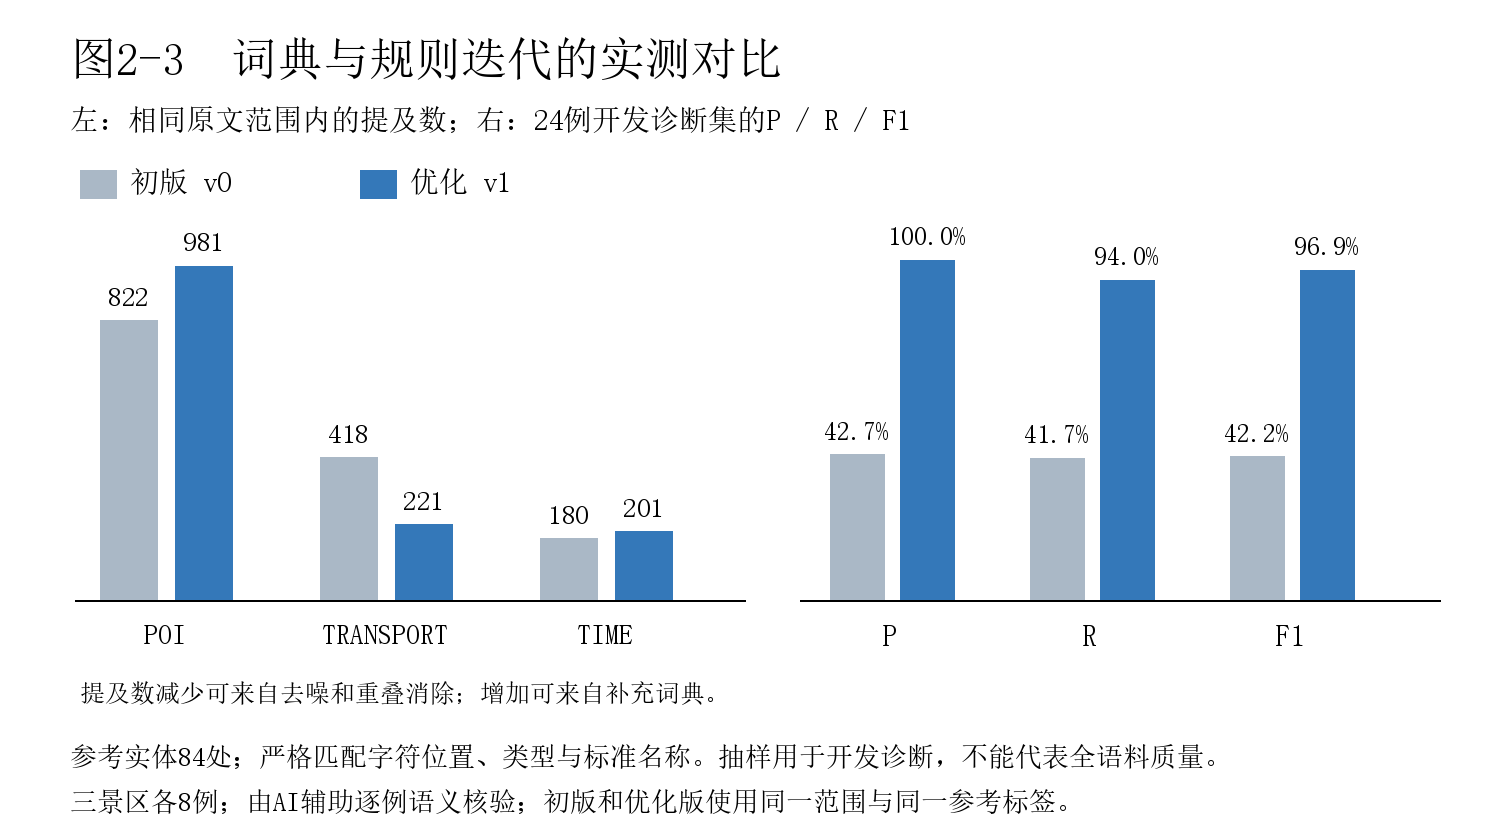
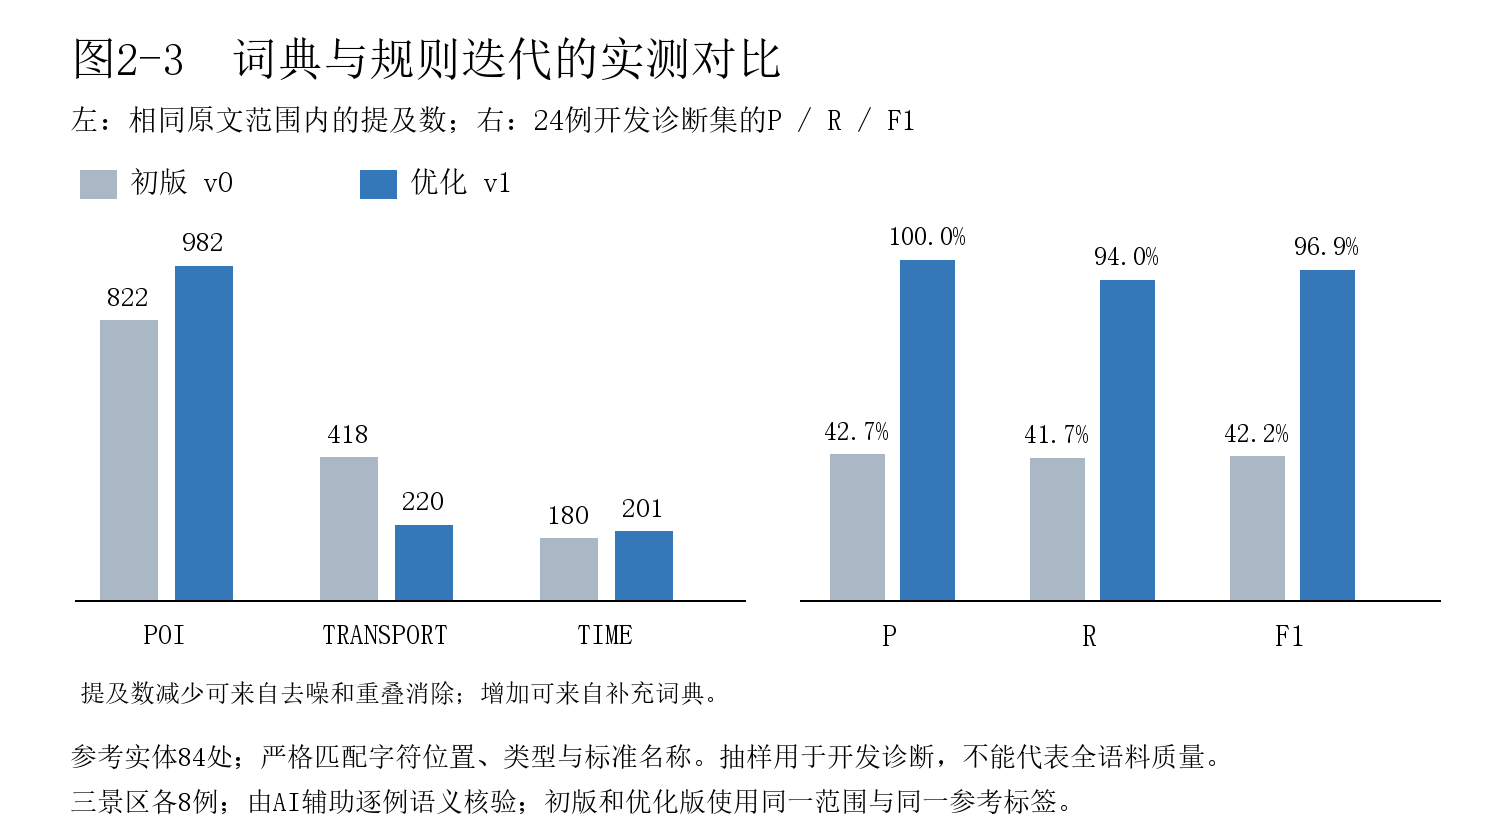
Confirm station alias and register Wentworth Falls picnic area

diff --git a/src/exp02_verify.py b/src/exp02_verify.py
@@ -70,6 +70,23 @@ def main():
     ids=lambda obj:{(m['span']['doc_id'],m['span']['start'],m['span']['end'],m['entity_id']):m['mention_id'] for m in obj['mentions']}
     assert ids(reordered)==ids(output),'顺序变化导致ID变化'
     assert {m['span']['doc_id'] for m in ms}==set(docs)
+    # YZH反馈的车站别名及独立野餐区，按完整地点边界核对，防止退回短词或误合并。
+    confirmations=read_json(ROOT/'data/resources/exp02_alignment_confirmations.json')
+    assert confirmations['corpus_sha256']==h
+    assert confirmations['resource_version']==lex['resource_version']==output['resource_version']
+    for mapping in confirmations['mappings']:
+        e=catalog[mapping['entity_id']]
+        assert e['active'] and e['entity_type']=='POI'
+        assert e['canonical_name']==mapping['canonical_name']
+        assert mapping['surface'] in [e['canonical_name']]+e['aliases']
+        for field in ['evidence','context']:
+            s=mapping[field]
+            assert docs[s['doc_id']]['text'][s['start']:s['end']]==s['text']
+        matches=[m for m in ms if m['span']==mapping['evidence']]
+        assert len(matches)==1 and matches[0]['entity_id']==mapping['entity_id']
+        for other_id in mapping.get('distinct_from',[]):
+            assert other_id!=e['entity_id'] and catalog[other_id]['active']
+            assert any(m['entity_id']==other_id for m in ms)
     # Each reference label is checked against frozen original text, including empty negative cases.
     reference=read_json(ROOT/'data/resources/exp02_review_reference.json')
     assert reference['corpus_sha256']==h
@@ -87,6 +104,7 @@ def main():
         'no_duplicate_or_overlapping_mentions':True,'no_exact_stopwords':True,
         'deterministic_rerun':True,'ids_stable_after_document_reordering':True,'review_reference_source_spans':True},
         corpus_sha256=h,review_metrics={v:r['metrics'] for v,r in review.items()})
+    quality['checks']['confirmed_poi_mappings']=len(confirmations['mappings'])
     write_json(ROOT/'results/checks/exp02_quality.json',quality)
     pending=[]
     for item in lex['ambiguous_names']:

diff --git a/src/exp04_coreference.py b/src/exp04_coreference.py
@@ -21,7 +21,7 @@ def load_json(path):
 
 def write_json(path,obj):
     path=Path(path);path.parent.mkdir(parents=True,exist_ok=True)
-    path.write_text(json.dumps(obj,ensure_ascii=False,indent=2)+'\n',encoding='utf-8')
+    path.write_text(json.dumps(obj,ensure_ascii=False,indent=2)+'\n',encoding='utf-8',newline='\n')
 
 def sha256(path):
     # 仓库将文本归一为LF；Windows工作区中已有JSON可能为CRLF。

diff --git a/src/exp02_entities.py b/src/exp02_entities.py
@@ -23,7 +23,7 @@ def read_json(path):
 def write_json(path, obj):
     path = Path(path)
     path.parent.mkdir(parents=True, exist_ok=True)
-    path.write_text(json.dumps(obj, ensure_ascii=False, indent=2) + '\n', encoding='utf-8')
+    path.write_text(json.dumps(obj, ensure_ascii=False, indent=2) + '\n', encoding='utf-8', newline='\n')
 
 
 def load_inputs():

diff --git a/results/checks/exp02_handoff.md b/results/checks/exp02_handoff.md
@@ -4,8 +4,9 @@
 
 ## 版本与运行
 
-- `schema_version: "1.0"`，`corpus_version: "v1"`，词典资源`exp02-v1`。完整输入18篇、154930字符，实际相关游览及接驳抽取范围42911字符；没有修改实验1公共正文。
+- `schema_version: "1.0"`，`corpus_version: "v1"`，词典资源`exp02-v1.1`。完整输入18篇、154930字符，实际相关游览及接驳抽取范围42911字符；没有修改实验1公共正文。
 - 实测Python 3.12.14、Pillow 12.3.0。识别与检查只需标准库；绘图依赖Pillow和中文字体，Windows默认宋体，其他系统可设置`EXP02_FONT`为中文字体文件。
+- 本次实体对齐增量更新另在Python 3.13.9、Pillow 12.0.0上重跑通过。实验2、4的JSON输出固定LF换行，与仓库约定一致，避免Windows重生成后Git换行转换使输入SHA-256失配。
 - 代码以Python 3.11+为兼容目标，尚未在3.11实测。无需密钥、LLM调用或联网服务。报告制作使用的Word排版环境不属于算法运行依赖。
 
 ```powershell
@@ -23,10 +24,12 @@ python src/exp02_visualize.py
 | `src/exp02_entities.py` | 三类实体词典／规则、偏移与稳定ID |
 | `src/exp02_verify.py` | 结构、范围、引用、字符位置、确定性和24例评价 |
 | `src/exp02_visualize.py` | 初版词频、优化词频及迭代对比彩色图 |
-| `data/resources/exp02_lexicon.json` | 169条POI登记、19条交通规则、停用词及已知歧义 |
+| `data/resources/exp02_lexicon.json` | 170条POI登记、19条交通规则、停用词及已知歧义 |
+| `data/resources/exp02_alignment_confirmations.json` | 两处已确认映射、原文区间、上下文与合并／拆分理由 |
 | `data/resources/exp02_scope.json` | 18篇原文的抽取起止、来源标记及范围说明 |
 | `data/resources/exp02_review_reference.json` | AI辅助逐例核验的24例参考标签，84处提及 |
-| `data/outputs/entities.json` | 327条目录记录，326条活跃、1条停用；1403次提及 |
+| `data/outputs/entities.json` | 328条目录记录，327条活跃、1条停用；1403次提及 |
+| `results/checks/exp02_alignment_update.json` | 本次增量更新、旧ID稳定性及实验4兼容性检查 |
 | `results/checks/exp02_baseline_entities.json` | 可复现初版输出，包含泛词和重叠候选，禁止作为正式图谱输入 |
 | `results/checks/exp02_*_stats.json`、`exp02_*_frequency.csv` | 两版统计、按实体及官方／游客分组的频次 |
 | `results/checks/exp02_scenic_density.csv` | 每10000字符提及数，辅助比较不同长度文本 |
@@ -53,10 +56,25 @@ python src/exp02_verify.py
 
 | 景区 | 抽取字符 | POI提及 | 交通提及 | 时间提及 | 活跃实体 |
 | --- | ---: | ---: | ---: | ---: | ---: |
-| S001 箱根 | 10082 | 295 | 95 | 41 | 92 |
+| S001 箱根 | 10082 | 296 | 94 | 41 | 92 |
 | S002 优胜美地 | 24494 | 424 | 64 | 107 | 148 |
-| S003 蓝山 | 8335 | 262 | 62 | 53 | 86 |
-| 合计 | 42911 | 981 | 221 | 201 | 326 |
+| S003 蓝山 | 8335 | 262 | 62 | 53 | 87 |
+| 合计 | 42911 | 982 | 220 | 201 | 327 |
+
+## YZH两处名称反馈的增量交付（exp02-v1.1）
+
+| YZH原词 | 确认后的标准实体 | 完整名称提及证据 |
+| --- | --- | --- |
+| 姥子缆车站 | 姥子站，沿用`S001_POI_026`，新增别名 | `S001_VIS_001 [482,487)` |
+| 温特沃斯(Wentworth)瀑布野餐区 | 温特沃斯瀑布野餐区，新增`S003_POI_052` | `S003_OFF_001 [2041,2061)` |
+
+第一处的上下文先写“来到姥子缆车站前”，随后写“离开姥子站”，可确认为同一地点。第二处原文明说到达野餐区后可步行前往瀑布，后续另述瀑布步道，故野餐区不合并到镇区`S003_POI_006`、瀑布`S003_POI_007`或步道`S003_POI_014`。上述旧实体仍活跃，原ID含义未变。
+
+完整地点最长匹配后，原来站名内部的“缆车”交通提及改为完整站点提及，原来野餐区名称内部的瀑布提及改为独立野餐区提及。因此POI提及981→982、交通221→220、时间201不变，总数仍为1403；不应理解为新增地点没有识别成功。原有327个目录ID全部保留，1401条未变提及沿用原mention_id；仅上述两处旧边界由两处完整名称提及替代，旧mention_id不复用。新增实体编号按现有最大S003_POI_051后递增分配。
+
+已重跑实体初版、优化版、结构验证、两处完整名称及实体分离检查、统计图；24例开发诊断指标保持TP79/FP0/FN5。实体输入变更后同步重跑实验4的基线、正式结果和验证，59例预测与指标未改变，404处证据检查通过，输入指纹已更新。
+
+YZH接收时先把本次main更新合入`yzh/routes-graph`，不要只手填路线ID。然后重跑实验3路线及评价、实验6图谱与质量检查和原有测试，核对`R_S001_VIS_001_01`第5步→`S001_POI_026`、`R_S003_OFF_001_01`第2步→`S003_POI_052`。按已反馈的30步范围，两处映射现已具备数据依据；最终对齐数、图谱节点边数和图表应以YZH实际复跑结果为准，本说明不代替其验收。FYH的advice.json是否可用需单独检查，本次没有生成条件建议或改动YZH模块。
 
 ## 读取样例
 

diff --git a/reports/exp02_entity_definitions.md b/reports/exp02_entity_definitions.md
@@ -17,11 +17,12 @@
 - “箱根汤本／箱根汤本站”当前共同作为入口节点，区域与车站精细粒度尚未拆分，目录note明确记录；今后拆分须维护旧ID映射。
 - 范围属性`scope`允许inside（目标游览区内）、surrounding（周边／接驳）、external（园外）、regional（父级区域）、not_applicable。该字段是本实验的操作性分区，不是法定边界或地图定位结果。
 - Wentworth Falls可指镇区或瀑布。英文裸名按接驳镇区登记并保留歧义说明，中文“温特沃斯瀑布”另建实体，不自动合并。
+- exp02-v1.1确认“姥子缆车站”为“姥子站”S001_POI_026的别名；“温特沃斯瀑布野餐区”独立登记为S003_POI_052，保留双语原词别名，与镇区S003_POI_006、瀑布S003_POI_007及步道S003_POI_014区分。原文位置与理由见data/resources/exp02_alignment_confirmations.json。
 - 否定、未到访、关闭、禁止使用中的实体仍是文本提及。不得因识别到bicycles就断言官方允许骑车；是否采用某交通工具留给后续关系或步骤抽取。
 
 ## 初版与优化版
 
-初版仅使用种子POI名称、通用交通词和基础中文时间规则，各词独立匹配，因此保留了嵌套子词与泛称噪声。优化版使用169条POI登记、19条交通规则、7组时间规则，删除11个POI／交通停用项，采用全局最长非重叠匹配，并补充英文时长、完整中文时刻、行程日序及词义上下文排除。两版使用完全相同的18篇来源和42911字符抽取范围。
+初版仅使用种子POI名称、通用交通词和基础中文时间规则，各词独立匹配，因此保留了嵌套子词与泛称噪声。优化版当前使用170条POI登记、19条交通规则、7组时间规则，删除11个POI／交通停用项，采用全局最长非重叠匹配，并补充英文时长、完整中文时刻、行程日序及词义上下文排除。两版使用完全相同的18篇来源和42911字符抽取范围。
 
 时间仅作保守表面规范化，例如`30min`→`30分钟`、`2 days`→`2天`、`清晨`→`早上`；“一日／一天”“一个小时／一小时”等尚未做完整等价归并。多个时段时刻仅是提及，不自动建立到达、离开、停留或条件关系。
 

diff --git a/README.md b/README.md
@@ -10,7 +10,7 @@
 
 ## 当前状态
 
-**实验1、实验2已完成，代码和结构化成果由main统一交付；实验4已在本地完成，尚未上传。** 正式语料为日本箱根（主展示）、美国优胜美地国家公园、澳大利亚蓝山国家公园，每个景区1份官方路线文档和5篇游客游记，共18篇、20个原始网页快照。实验2输出326条活跃实体、1403次提及，包含实体定义、原文偏移、24例逐例核验及三张彩色图。实验4在5篇游记中检测59处目标指代，保存AI辅助逐例参考标注、预测和原文位置；总体内部核验38/59，覆盖率47/59。实验3、5—7仍为待实现骨架。原任务书PDF和报告模板DOCX保留不变；本地Word报告未推送。
+**实验1、实验2、实验4已完成，代码和结构化成果由main统一交付。** 正式语料为日本箱根（主展示）、美国优胜美地国家公园、澳大利亚蓝山国家公园，每个景区1份官方路线文档和5篇游客游记，共18篇、20个原始网页快照。实验2当前资源版本为exp02-v1.1，输出327条活跃实体、1403次提及，包含实体定义、原文偏移、24例逐例核验及三张彩色图；补充姥子缆车站别名及独立的温特沃斯瀑布野餐区，映射见[实验2交接说明](results/checks/exp02_handoff.md)。实验4在5篇游记中检测59处目标指代，保存AI辅助逐例参考标注、预测和原文位置；总体内部核验38/59，覆盖率47/59。main中的实验3、5—7仍为待实现骨架；YZH的实验3、6成果目前在yzh/routes-graph分支。原任务书PDF和报告模板DOCX保留不变；本地Word报告未推送。
 
 从项目根目录运行：
 

diff --git a/results/checks/exp04_handoff.md b/results/checks/exp04_handoff.md
@@ -1,10 +1,11 @@
 # 实验4交接说明
 
-负责人：DHT。接收人：YZH、FYH。接收确认状态：尚未由组员实际确认。当前仅在本地完成，不代表已经上传GitHub。
+负责人：DHT。接收人：YZH、FYH。实验4初次成果已由main的c258291交付；YZH在其分支的exp06_exp04_receipt.md记录了程序接收检查，FYH接收及组员独立语义复核仍待确认。
 
 ## 输入与版本
 
 - 输入：`data/processed/corpus.jsonl`、`data/outputs/entities.json`。公共语料 `schema_version=1.0`、`corpus_version=v1`，实验2实体目录编号不改。
+- 实验2当前资源版本为`exp02-v1.1`：补充姥子缆车站别名及独立野餐区。已同步重跑实验4的基线、正式预测与验证，更新实体输入SHA-256；59例预测、指标及404处证据检查数量不变。基线候选轨迹中的两处旧“缆车”候选改为完整站点证据，不能误称所有中间候选未变化。此次实测Python 3.13.9；JSON输出固定LF以保持跨平台输入指纹一致。
 - 5篇游记：`S001_VIS_001`、`S001_VIS_003`、`S002_VIS_005`、`S003_VIS_001`、`S003_VIS_005`；三个景区均覆盖，共6053个完整正文字符。
 - 字符位置：完整v1正文的Python字符串索引，0起点，`end`不含在内。每个`case_id`含来源文档ID及代词起点。
 
